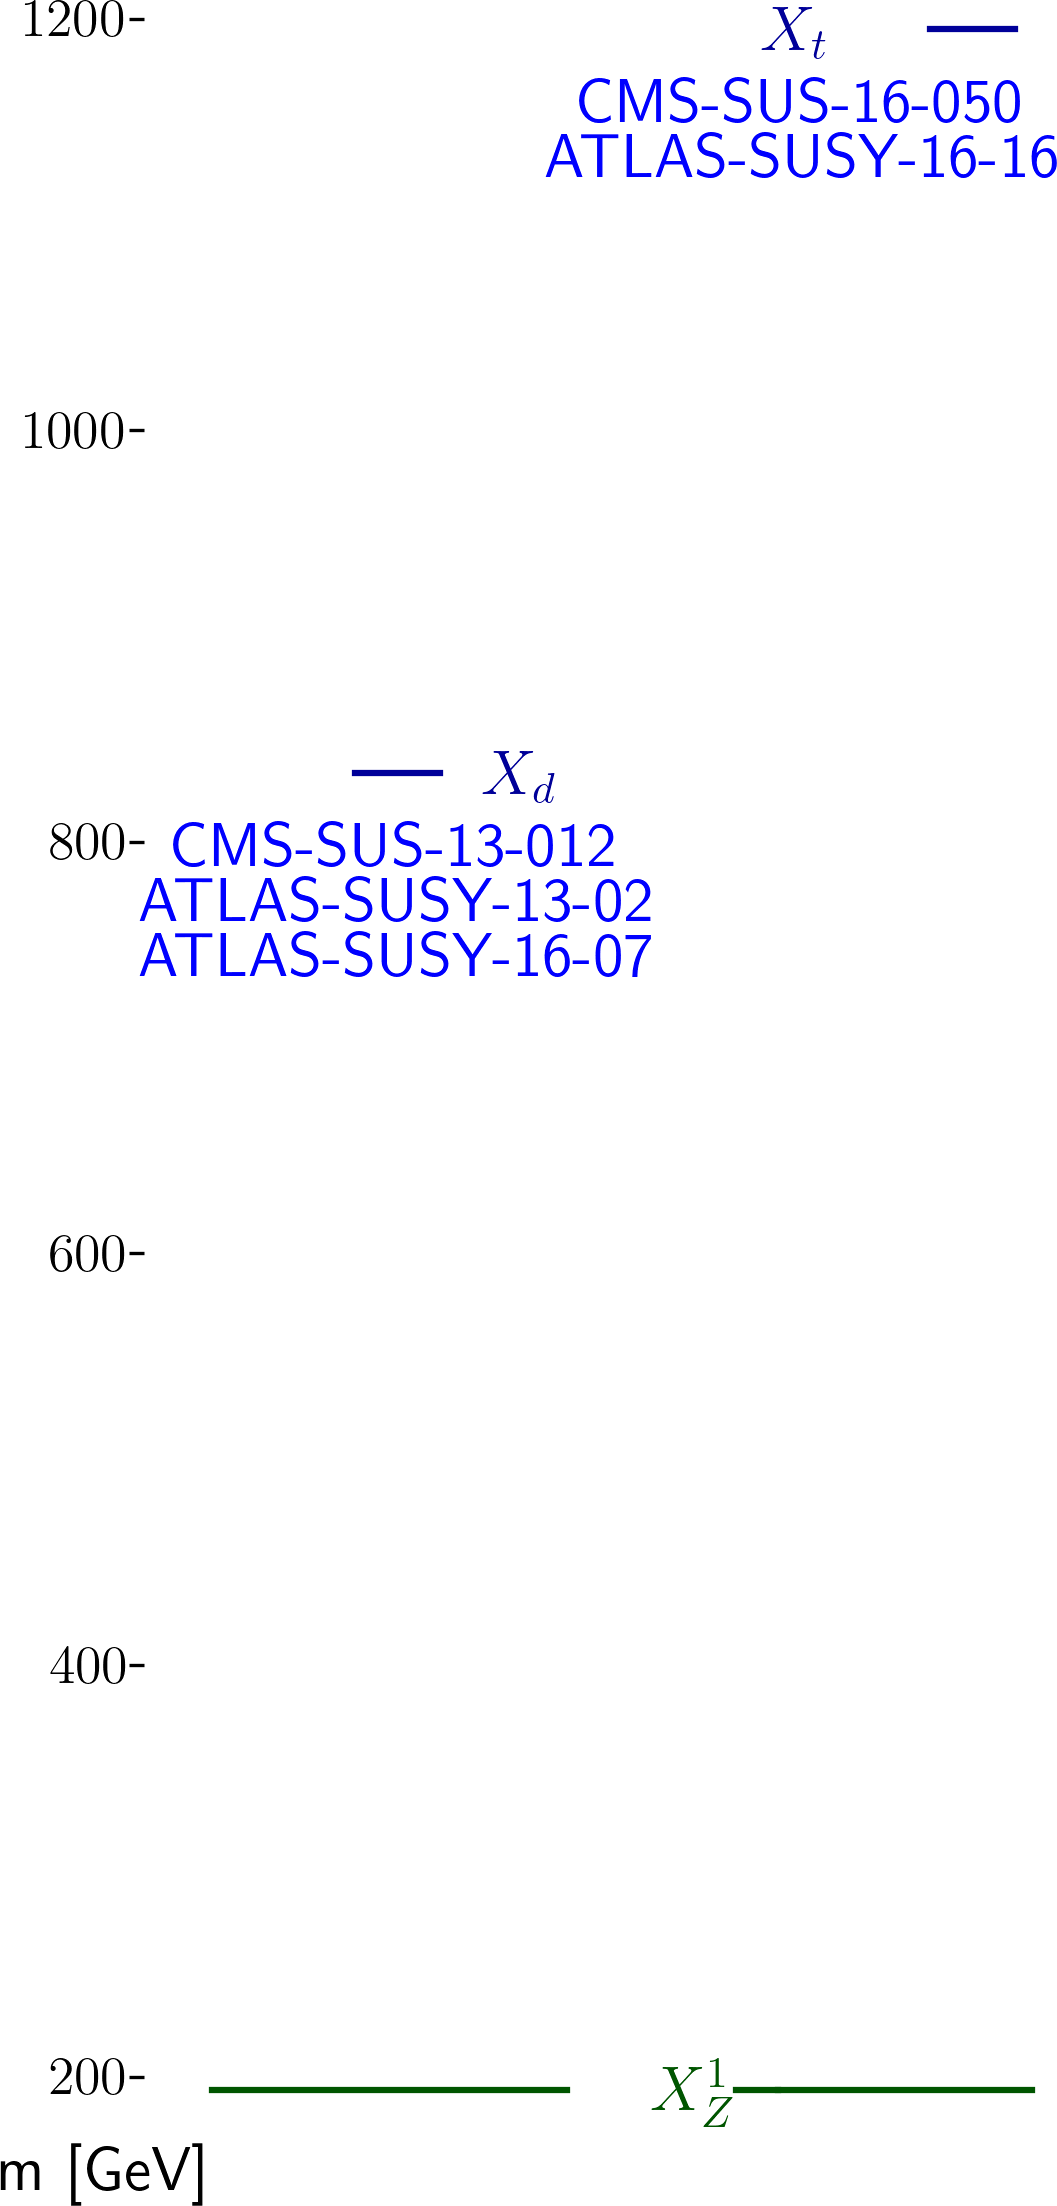
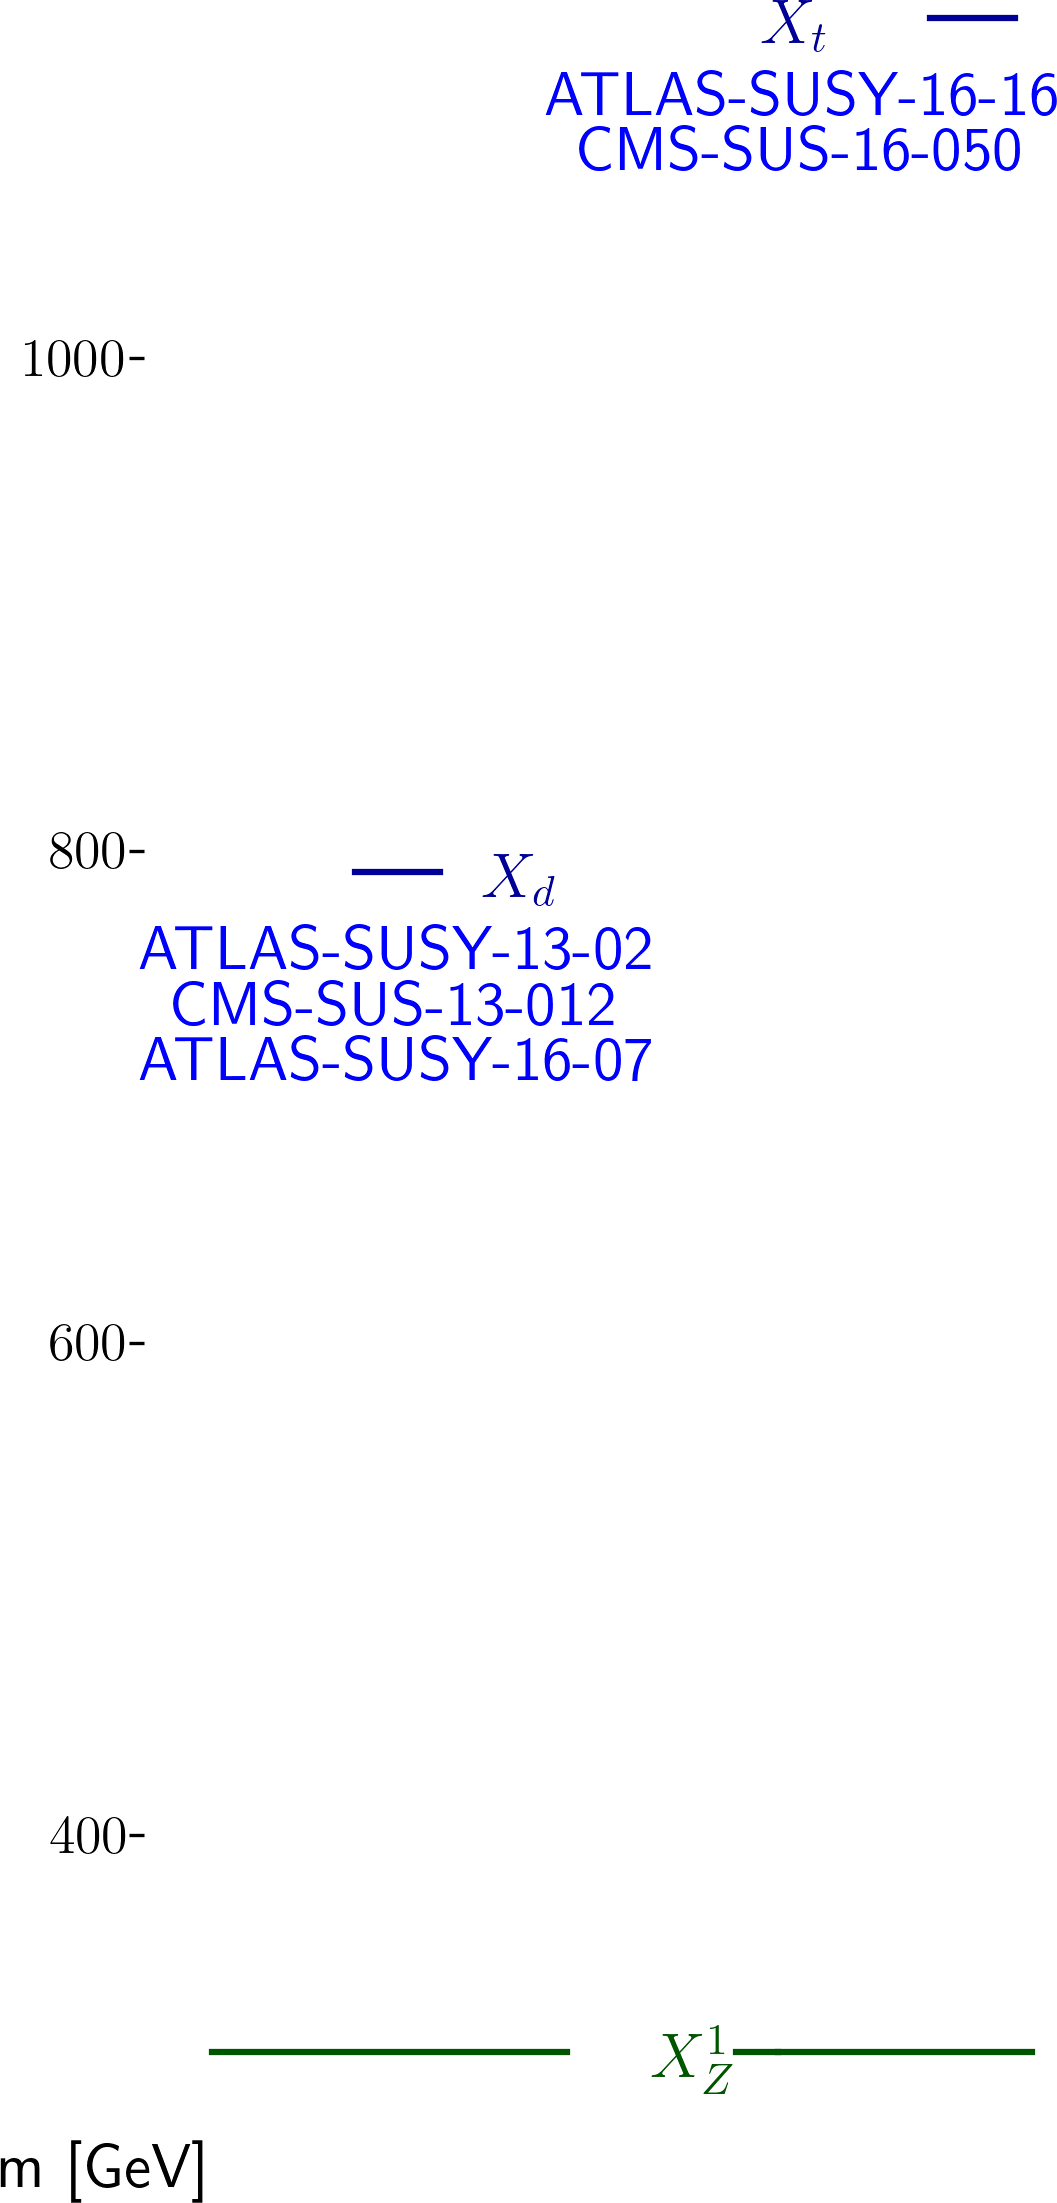
automated update by plotHiscore.py

diff --git a/protomodels/latest/index.html b/protomodels/latest/index.html
@@ -1,30 +1,30 @@
 <html>
 <body>
 <center>
-<table><td><h1>Current best protomodel: K=6.89</h1><td><img height=60px src=https://smodels.github.io/pics/banner.png></table>
+<table><td><h1>Current best protomodel: K=6.39</h1><td><img height=60px src=https://smodels.github.io/pics/banner.png></table>
 </center>
-<b><a href=./hiscore.slha>ProtoModel</a> <a href=./pmodel.py>(dict)</a> produced with <a href=https://smodels.github.io/docs/Validation124>database v1.2.4</a>, combination strategy <a href=./matrix_aggressive.png>aggressive</a> in walker 23 step 881.</b> K plots for: <a href=./M1000022.png?8911514>X<sub>Z</sub><sup>1</sup></a>, <a href=./M1000006.png?8911514>X<sub>t</sub></a>, <a href=./M1000001.png?8911514>X<sub>d</sub></a>. HPD plots for: <a href=./llhd1000006.png?8911514>X<sub>t</sub></a>, <a href=./llhd1000001.png?8911514>X<sub>d</sub></a>. SSM plots for: <a href=./ssm_-1000006_1000006.png?8911514>(x&#772;<sub>t</sub>,X<sub>t</sub>)</a><br>
+<b><a href=./hiscore.slha>ProtoModel</a> <a href=./pmodel.py>(dict)</a> produced with <a href=https://smodels.github.io/docs/Validation124>database v1.2.4</a>, combination strategy <a href=./matrix_aggressive.png>aggressive</a> in walker 29 step 20.</b> K plots for: <a href=./M1000022.png?8917812>X<sub>Z</sub><sup>1</sup></a>, <a href=./M1000006.png?8917812>X<sub>t</sub></a>, <a href=./M1000001.png?8917812>X<sub>d</sub></a>. HPD plots for: <a href=./llhd1000006.png?8917812>X<sub>t</sub></a>, <a href=./llhd1000001.png?8917812>X<sub>d</sub></a>. SSM plots for: <a href=./ssm_-1000006_1000006.png?8917812>(x&#772;<sub>t</sub>,X<sub>t</sub>)</a><br>
 <table width=80%>
 <tr><td>
 <br><b>24 predictions available. Highest r values are:</b><br><ul>
 <li><a href=http://cms-results.web.cern.ch/cms-results/public-results/publications/SUS-19-006/index.html>CMS-SUS-19-006</a>:T2 r=1.30, r<sub>exp</sub>=1.13<br>
-<li><a href=http://cms-results.web.cern.ch/cms-results/public-results/publications/SUS-16-033/index.html>CMS-SUS-16-033</a>:T2 r=1.08, r<sub>exp</sub>=0.81<br>
-<li><a href=http://cms-results.web.cern.ch/cms-results/public-results/publications/SUS-19-006/index.html>CMS-SUS-19-006</a>:T2tt r=1.01, r<sub>exp</sub>=1.00<br>
-<li><a href=http://cms-results.web.cern.ch/cms-results/public-results/publications/SUS-16-036/index.html>CMS-SUS-16-036</a>:T2 r=0.80, r<sub>exp</sub>=0.77<br>
-<li><a href=http://cms-results.web.cern.ch/cms-results/public-results/publications/SUS-16-051/index.html>CMS-SUS-16-051</a>:T2tt r=0.72, r<sub>exp</sub>=0.47<br>
+<li><a href=http://cms-results.web.cern.ch/cms-results/public-results/publications/SUS-16-033/index.html>CMS-SUS-16-033</a>:T2 r=1.29, r<sub>exp</sub>=0.85<br>
+<li><a href=http://cms-results.web.cern.ch/cms-results/public-results/publications/SUS-19-006/index.html>CMS-SUS-19-006</a>:T2tt r=1.07, r<sub>exp</sub>=0.98<br>
+<li><a href=http://cms-results.web.cern.ch/cms-results/public-results/publications/SUS-16-036/index.html>CMS-SUS-16-036</a>:T2 r=0.94, r<sub>exp</sub>=0.74<br>
+<li><a href=http://cms-results.web.cern.ch/cms-results/public-results/publications/SUS-16-051/index.html>CMS-SUS-16-051</a>:T2tt r=0.79, r<sub>exp</sub>=0.51<br>
 </ul>
 <td><br><b>K values without analyses: (contribution)</b><br>
 <ul>
-<li> <a href=http://cms-results.web.cern.ch/cms-results/public-results/publications/SUS-16-050/index.html>CMS-SUS-16-050</a>: 3.62 (14%)
-<li> <a href=https://twiki.cern.ch/twiki/bin/view/CMSPublic/PhysicsResultsSUS13012>CMS-SUS-13-012</a>: 3.62 (14%)
-<li> <a href=https://atlas.web.cern.ch/Atlas/GROUPS/PHYSICS/PAPERS/SUSY-2013-02/>ATLAS-SUSY-2013-02</a>: 3.55 (14%)
-<li> <a href=https://atlas.web.cern.ch/Atlas/GROUPS/PHYSICS/PAPERS/SUSY-2016-16/>ATLAS-SUSY-2016-16</a>: 1.19 (24%)
-<li> <a href=https://atlas.web.cern.ch/Atlas/GROUPS/PHYSICS/PAPERS/SUSY-2016-07/>ATLAS-SUSY-2016-07</a>: -0.80 (33%)
-<td><img width=600px src=./texdoc.png?1601911514>
-<br><font size=-1>Last updated: Mon Oct  5 17:25:14 2020</font>
+<li> <a href=http://cms-results.web.cern.ch/cms-results/public-results/publications/SUS-16-050/index.html>CMS-SUS-16-050</a>: 3.43 (14%)
+<li> <a href=https://twiki.cern.ch/twiki/bin/view/CMSPublic/PhysicsResultsSUS13012>CMS-SUS-13-012</a>: 3.43 (14%)
+<li> <a href=https://atlas.web.cern.ch/Atlas/GROUPS/PHYSICS/PAPERS/SUSY-2013-02/>ATLAS-SUSY-2013-02</a>: 3.34 (14%)
+<li> <a href=https://atlas.web.cern.ch/Atlas/GROUPS/PHYSICS/PAPERS/SUSY-2016-16/>ATLAS-SUSY-2016-16</a>: 1.16 (24%)
+<li> <a href=https://atlas.web.cern.ch/Atlas/GROUPS/PHYSICS/PAPERS/SUSY-2016-07/>ATLAS-SUSY-2016-07</a>: -0.84 (34%)
+<td><img width=600px src=./texdoc.png?1601917812>
+<br><font size=-1>Last updated: Mon Oct  5 19:10:12 2020</font>
 </table><table style="width:80%">
-<td width=45%><img height=580px src=./ruler.png?1601911514><td width=55%><img height=380px src=./decays.png?1601911514>
-<font size=-3><iframe type="text/html" height="220px" width="100%s" frameborder="0" src="./rawnumbers.html?1601911514"></iframe></font>
+<td width=45%><img height=580px src=./ruler.png?1601917812><td width=55%><img height=380px src=./decays.png?1601917812>
+<font size=-3><iframe type="text/html" height="220px" width="100%s" frameborder="0" src="./rawnumbers.html?1601917812"></iframe></font>
 </table>
 </body>
 </html>

diff --git a/protomodels/latest/rawnumbers.html b/protomodels/latest/rawnumbers.html
@@ -4,6 +4,6 @@
 <tr><td><a href=https://atlas.web.cern.ch/Atlas/GROUPS/PHYSICS/PAPERS/SUSY-2013-02/>ATLAS-SUSY-2013-02</a></td><td>em</td> <td>SR6jtp</td><td>T2</td><td>6</td><td>4.9 +/- 1.6</td><td style="text-align:right">0.4 &sigma;</td><td style="text-align:right">X<sub>d</sub></td></tr>
 <tr><td><a href=https://atlas.web.cern.ch/Atlas/GROUPS/PHYSICS/PAPERS/SUSY-2016-07/>ATLAS-SUSY-2016-07</a></td><td>em</td> <td>2j_Meff_1200</td><td>T2</td><td>611</td><td>526 +/- 31</td><td style="text-align:right">2.2 &sigma;</td><td style="text-align:right">X<sub>d</sub></td></tr>
 <tr><td><a href=https://atlas.web.cern.ch/Atlas/GROUPS/PHYSICS/PAPERS/SUSY-2016-16/>ATLAS-SUSY-2016-16</a></td><td>em</td> <td>tN_high</td><td>T2tt</td><td>8</td><td>3.8 +/- 1</td><td style="text-align:right">1.9 &sigma;</td><td style="text-align:right">X<sub>t</sub></td></tr>
-<tr><td><a href=https://twiki.cern.ch/twiki/bin/view/CMSPublic/PhysicsResultsSUS13012>CMS-SUS-13-012</a></td><td>ul</td> <td>-</td><td>T2</td><td> 19.4 fb </td><td> 11.4 fb</td><td style="text-align:right">1.4 &sigma;</td><td style="text-align:right">X<sub>d</sub></td></tr>
-<tr><td><a href=http://cms-results.web.cern.ch/cms-results/public-results/publications/SUS-16-050/index.html>CMS-SUS-16-050</a></td><td>ul</td> <td>-</td><td>T2tt</td><td> 4.4 fb </td><td> 2.4 fb</td><td style="text-align:right">1.6 &sigma;</td><td style="text-align:right">X<sub>t</sub></td></tr>
+<tr><td><a href=https://twiki.cern.ch/twiki/bin/view/CMSPublic/PhysicsResultsSUS13012>CMS-SUS-13-012</a></td><td>ul</td> <td>-</td><td>T2</td><td> 37.5 fb </td><td> 22.9 fb</td><td style="text-align:right">1.2 &sigma;</td><td style="text-align:right">X<sub>d</sub></td></tr>
+<tr><td><a href=http://cms-results.web.cern.ch/cms-results/public-results/publications/SUS-16-050/index.html>CMS-SUS-16-050</a></td><td>ul</td> <td>-</td><td>T2tt</td><td> 5.0 fb </td><td> 2.9 fb</td><td style="text-align:right">1.5 &sigma;</td><td style="text-align:right">X<sub>t</sub></td></tr>
 </table>

diff --git a/protomodels/latest/pmodel.py b/protomodels/latest/pmodel.py
@@ -1,1 +1,1 @@
-{'masses': {1000022: 183.674, 1000001: 823.436, 1000006: 1184.933}, 'ssmultipliers': {(1000022, 1000022): 0.0, (1000001, 1000001): 0.648, (-1000001, 1000001): 0.648, (-1000001, -1000001): 0.648, (1000001, 1000022): 0.648, (-1000001, 1000022): 0.648, (1000006, 1000006): 1.186, (-1000006, 1000006): 1.186, (-1000006, -1000006): 1.186, (1000006, 1000022): 1.186, (-1000006, 1000022): 1.186, (1000001, 1000006): 1.018, (-1000006, 1000001): 1.018, (-1000001, 1000006): 1.018, (-1000006, -1000001): 1.018}, 'decays': {1000022: {}, 1000001: {(1000022, 1): 1.0}, 1000006: {(1000022, 6): 1.0}}, 'timestamp': 'Mon Oct  5 17:24:45 2020', 'Z': 3.231, 'K': 6.889, 'walkerid': 23, 'step': 881, 'codever': '1.0', 'dbver': '1.2.4'}
+{'masses': {1000022: 301.718, 1000001: 781.247, 1000006: 1128.388}, 'ssmultipliers': {(1000022, 1000022): 0.005, (1000001, 1000001): 0.822, (-1000001, 1000001): 0.823, (-1000001, -1000001): 0.823, (1000001, 1000022): 0.823, (-1000001, 1000022): 0.823, (1000006, 1000006): 0.999, (-1000006, 1000006): 0.999, (-1000006, -1000006): 0.999, (1000006, 1000022): 0.999, (-1000006, 1000022): 0.999, (1000001, 1000006): 0.999, (-1000006, 1000001): 0.999, (-1000001, 1000006): 0.999, (-1000006, -1000001): 0.999}, 'decays': {1000022: {}, 1000001: {(1000022, 1): 1.0}, 1000006: {(1000022, 6): 1.0}}, 'timestamp': 'Mon Oct  5 19:09:39 2020', 'Z': 3.16, 'K': 6.388, 'walkerid': 29, 'step': 20, 'codever': '1.0', 'dbver': '1.2.4'}
